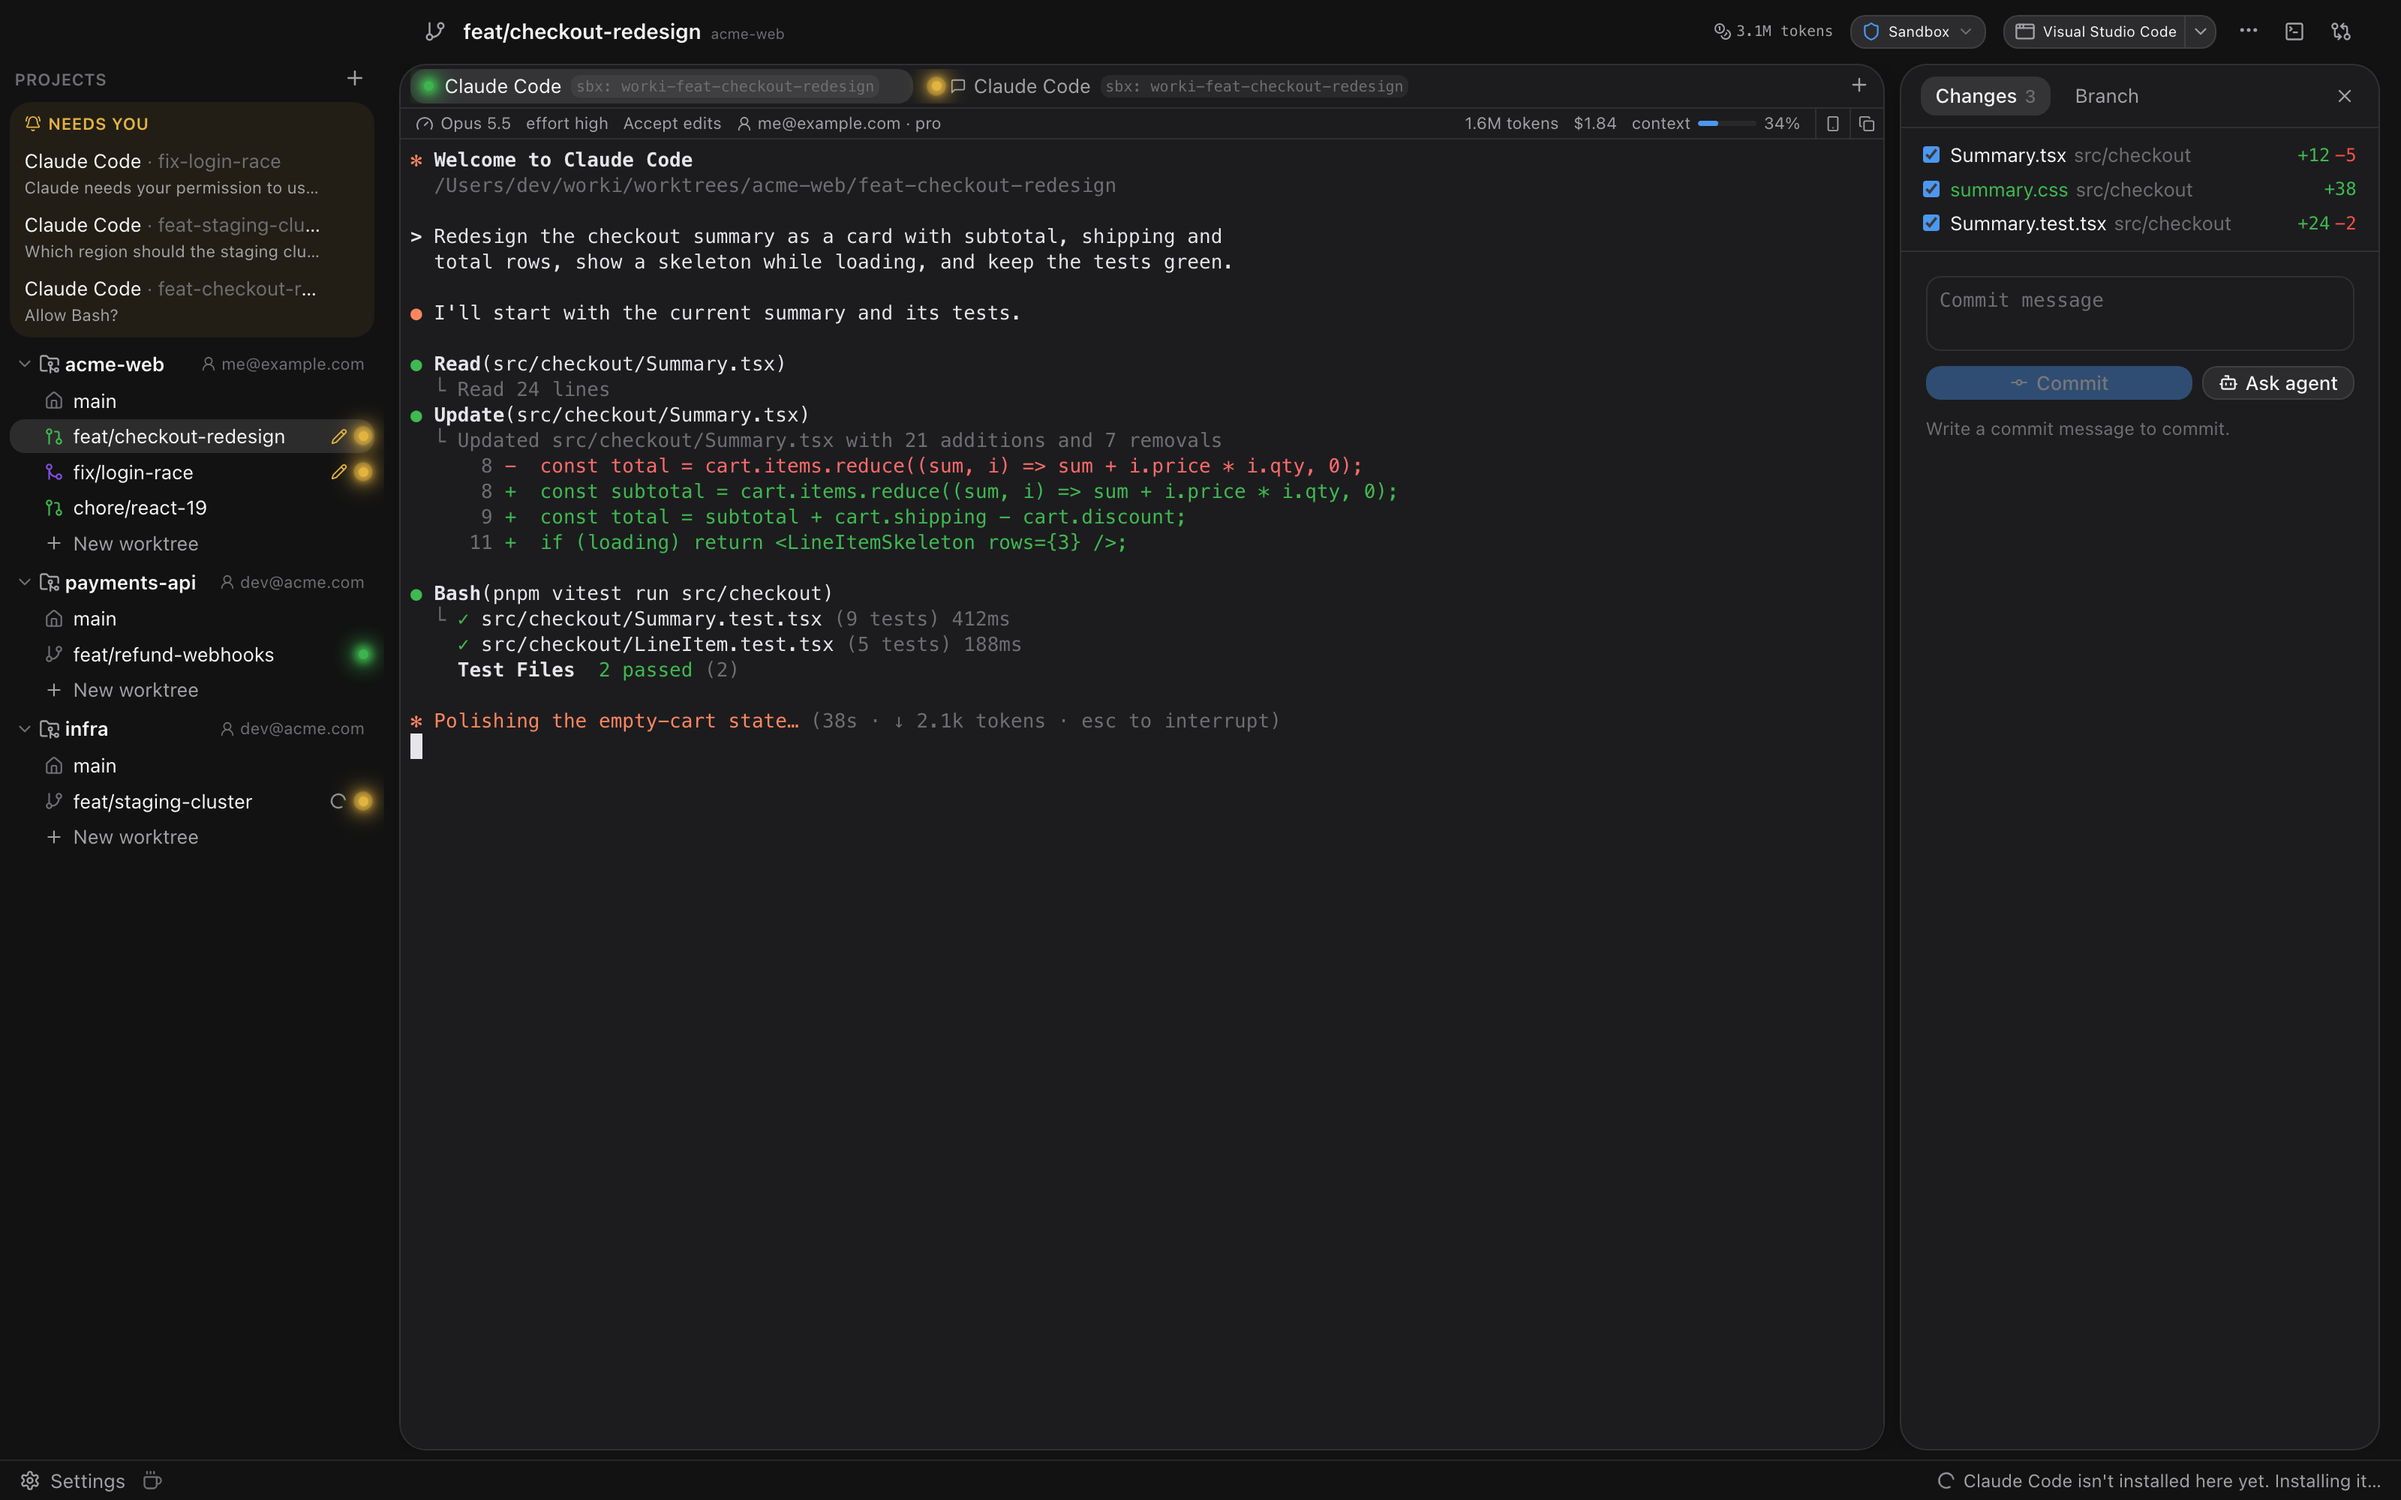
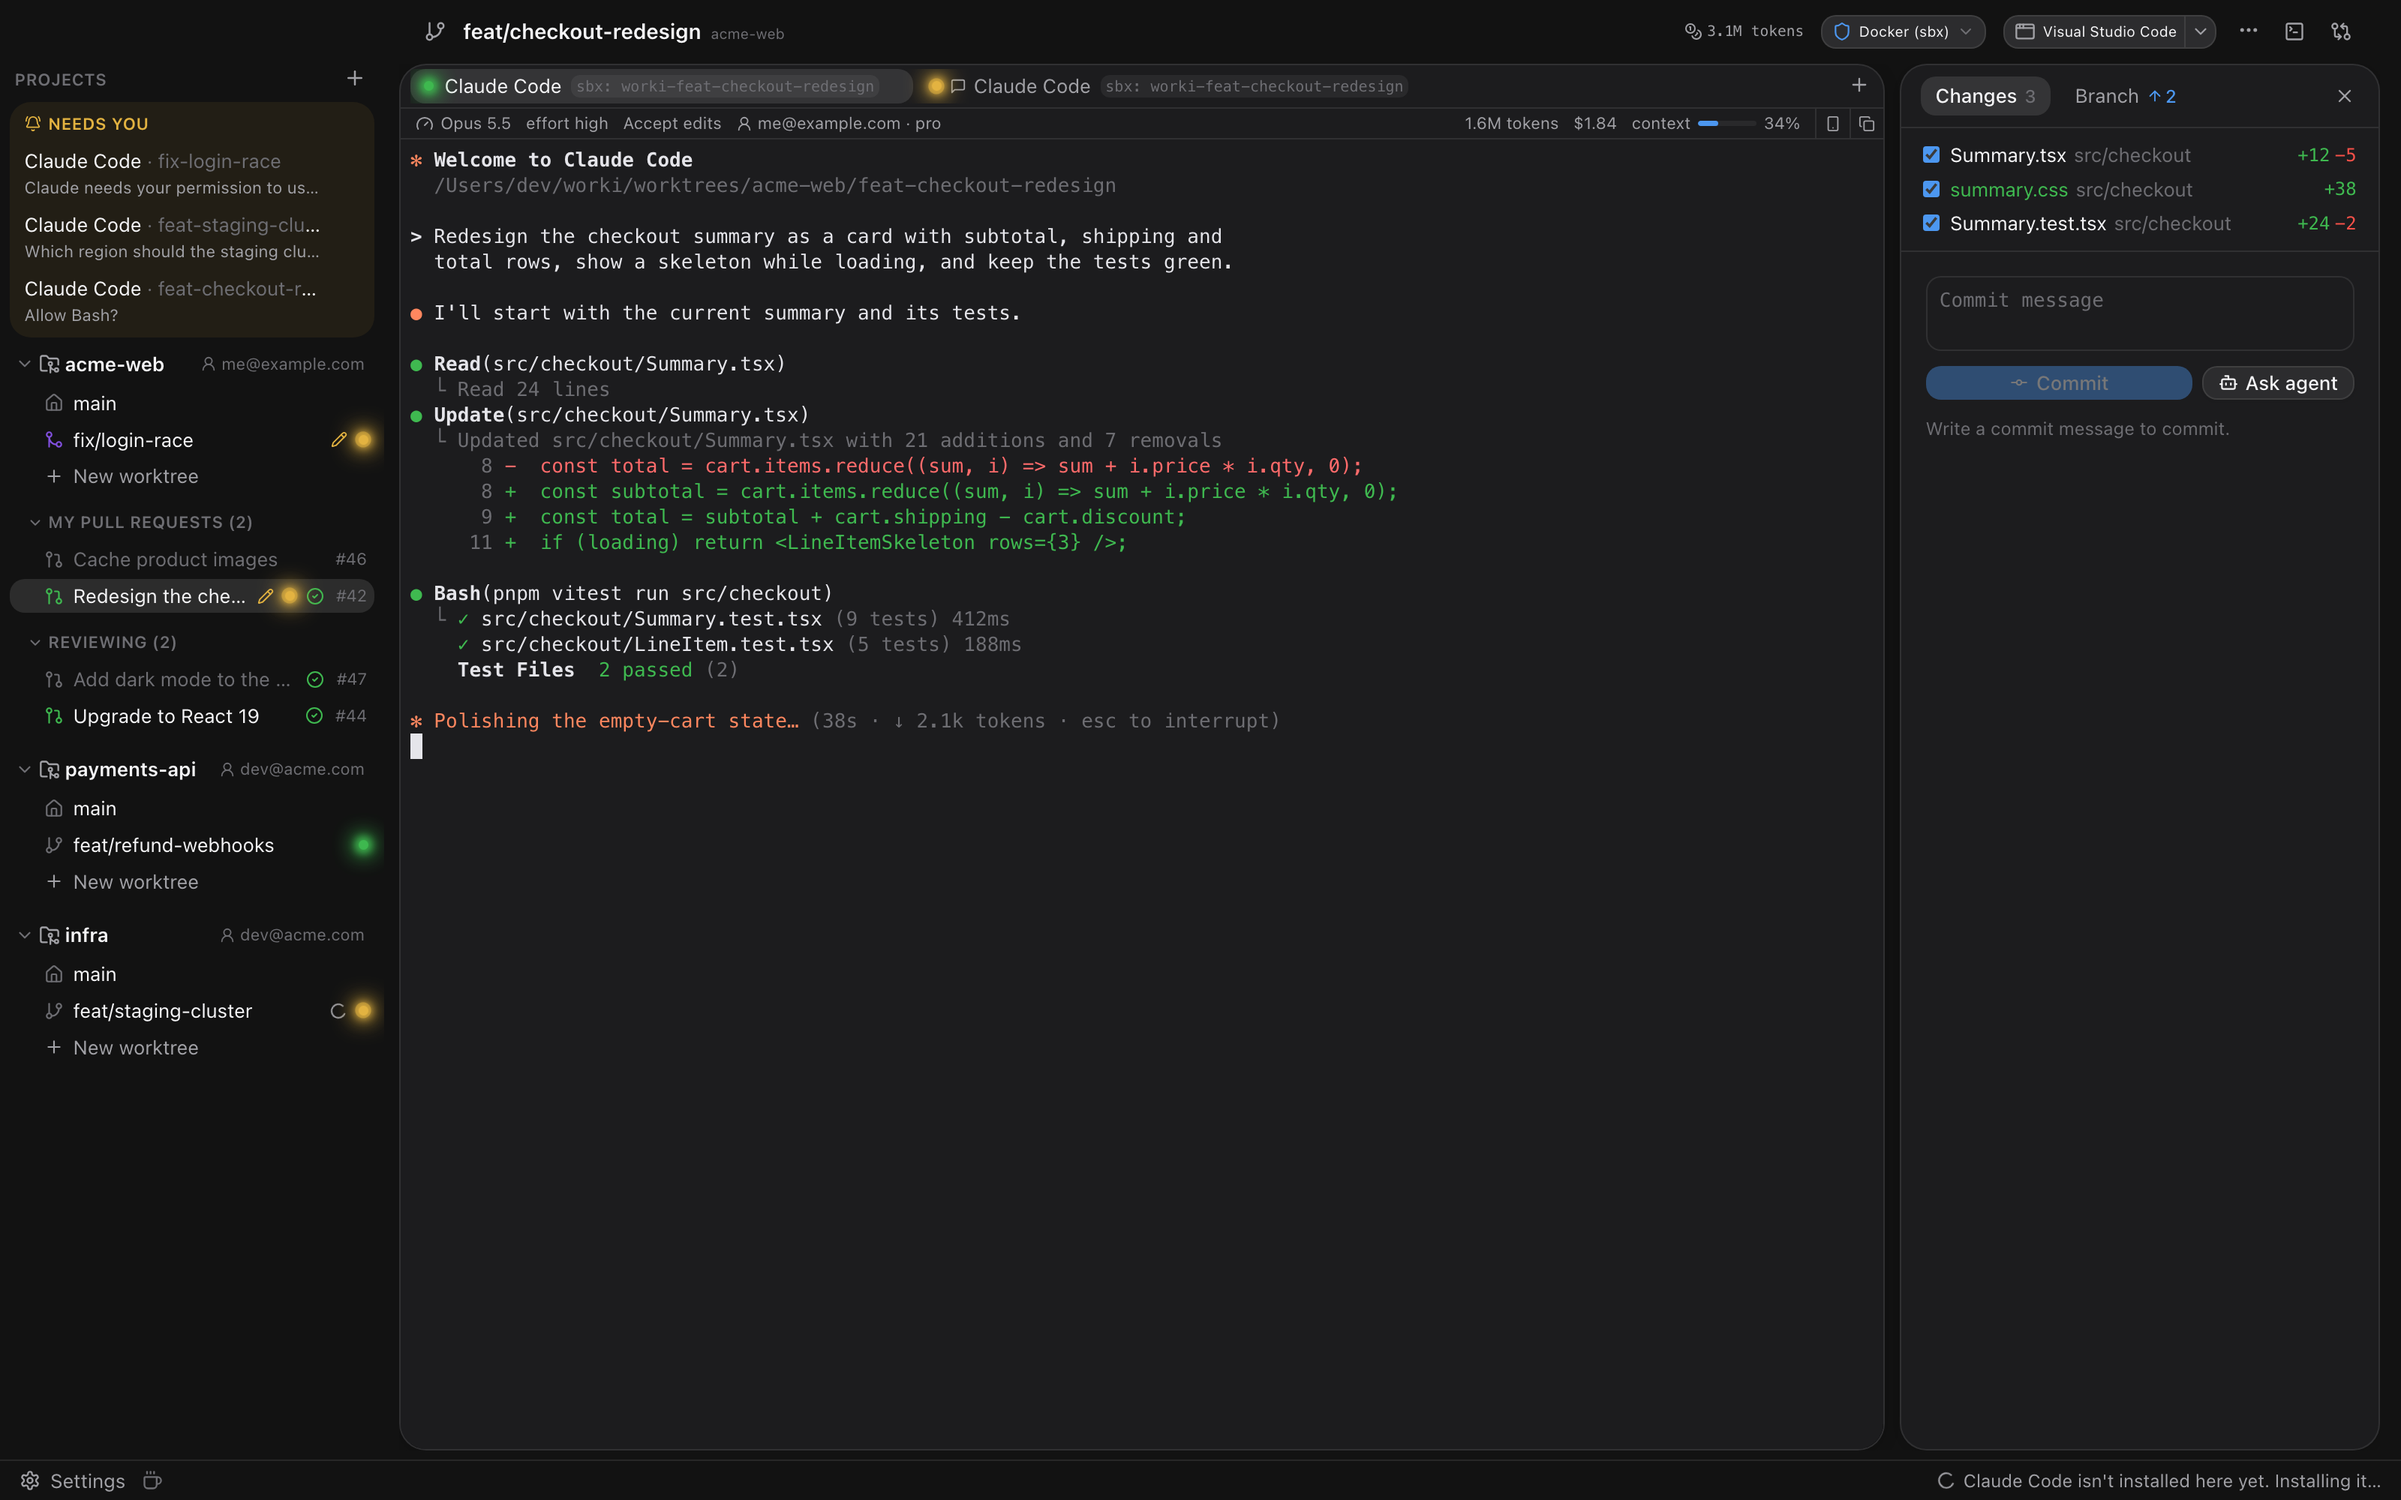
Update screenshots, README and site for open pull requests

diff --git a/site/index.html b/site/index.html
@@ -194,8 +194,9 @@ brew install --cask worki</code></pre>
       </figure>
       <ul class="points">
         <li><b>Commit</b> the files you pick, or let the agent write the commit messages.</li>
-        <li><b>Branch tab.</b> How the branch stands against the branch it started from, with a safe Rebase and every file it touched.</li>
+        <li><b>Branch tab.</b> How the branch stands against its target, with a safe Rebase, every file it touched, and where a push goes.</li>
         <li><b>Pull requests</b> through the GitHub CLI: open one, follow its checks, and bring review comments back to the agent.</li>
+        <li><b>Open pull requests</b> in the sidebar: yours and the ones you're asked to review. Click one to check it out into its own worktree.</li>
         <li><b>Review in place.</b> Comment on any diff line and send the comments to the agent as one review.</li>
       </ul>
     </section>

diff --git a/README.md b/README.md
@@ -180,16 +180,22 @@ worki starts again. The status bar details (model, context, token usage) are Cla
 
 - **Commit** the files you pick from the **Changes** tab, or let the agent write the commit
   messages.
-- **Branch** tab: how the branch stands against the branch it was started from, with **Rebase** (it fetches
-  first; on conflicts nothing changes and the agent can resolve them), the branch's commits and
-  every file it touched.
+- **Branch** tab: how the branch stands against its target (what it was started from, or one you
+  pick later), with **Rebase** (it fetches first; on conflicts nothing changes and the agent can
+  resolve them), the branch's commits and every file it touched. A badge on the tab shows
+  commits waiting to be pushed, and the panel always says where a push goes (`origin/<branch>`),
+  in orange when it overwrites.
 - **Pull requests** through the GitHub CLI: create one, follow its checks, push new commits, and
   pull review comments into worki to send them to the agent. The sidebar shows each worktree's
   pull request (open, draft, merged or closed) and marks failed checks.
+- **Open pull requests in the sidebar.** Each project lists your pull requests and the ones you're
+  asked to review. Click one without a worktree and worki checks it out into a new one, forks
+  included.
 - **Review in place.** Comment on any diff line, expand hidden context, and send the comments to
   the agent as one review.
 
-Commits and pull requests can be turned off under Settings › Git. Pull requests need
+Commits and pull requests can be turned off under Settings › Git, and the sidebar's pull request
+lists under Settings › General. Pull requests need
 [`gh`](https://cli.github.com) installed and signed in (`gh auth login`).
 
 ## Everything around it
